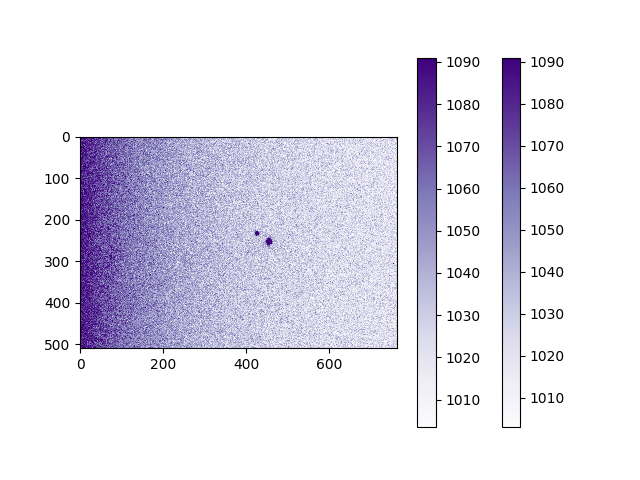
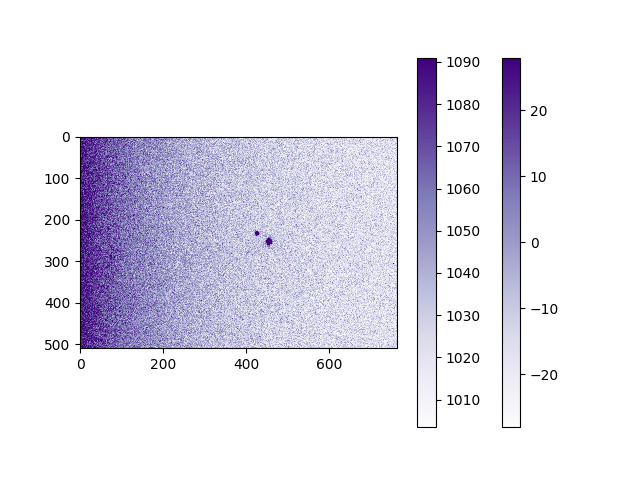
Fixed scaling issue in subtracted images.

diff --git a/Lab2/lab2.py b/Lab2/lab2.py
@@ -25,7 +25,7 @@ for df in dataframes:
     plt.clf()
 
     dark_sub = df - med_dark_frame
-    low, high = np.percentile(df.flatten(), [1,99])
+    low, high = np.percentile(dark_sub.flatten(), [1,99])
     plt.imshow(dark_sub, cmap=color_palette, vmin=low, vmax=high)
     plt.colorbar()
     plt.savefig(f'subtracted_fields/Albireo_V_100ms_00{i}.png')
